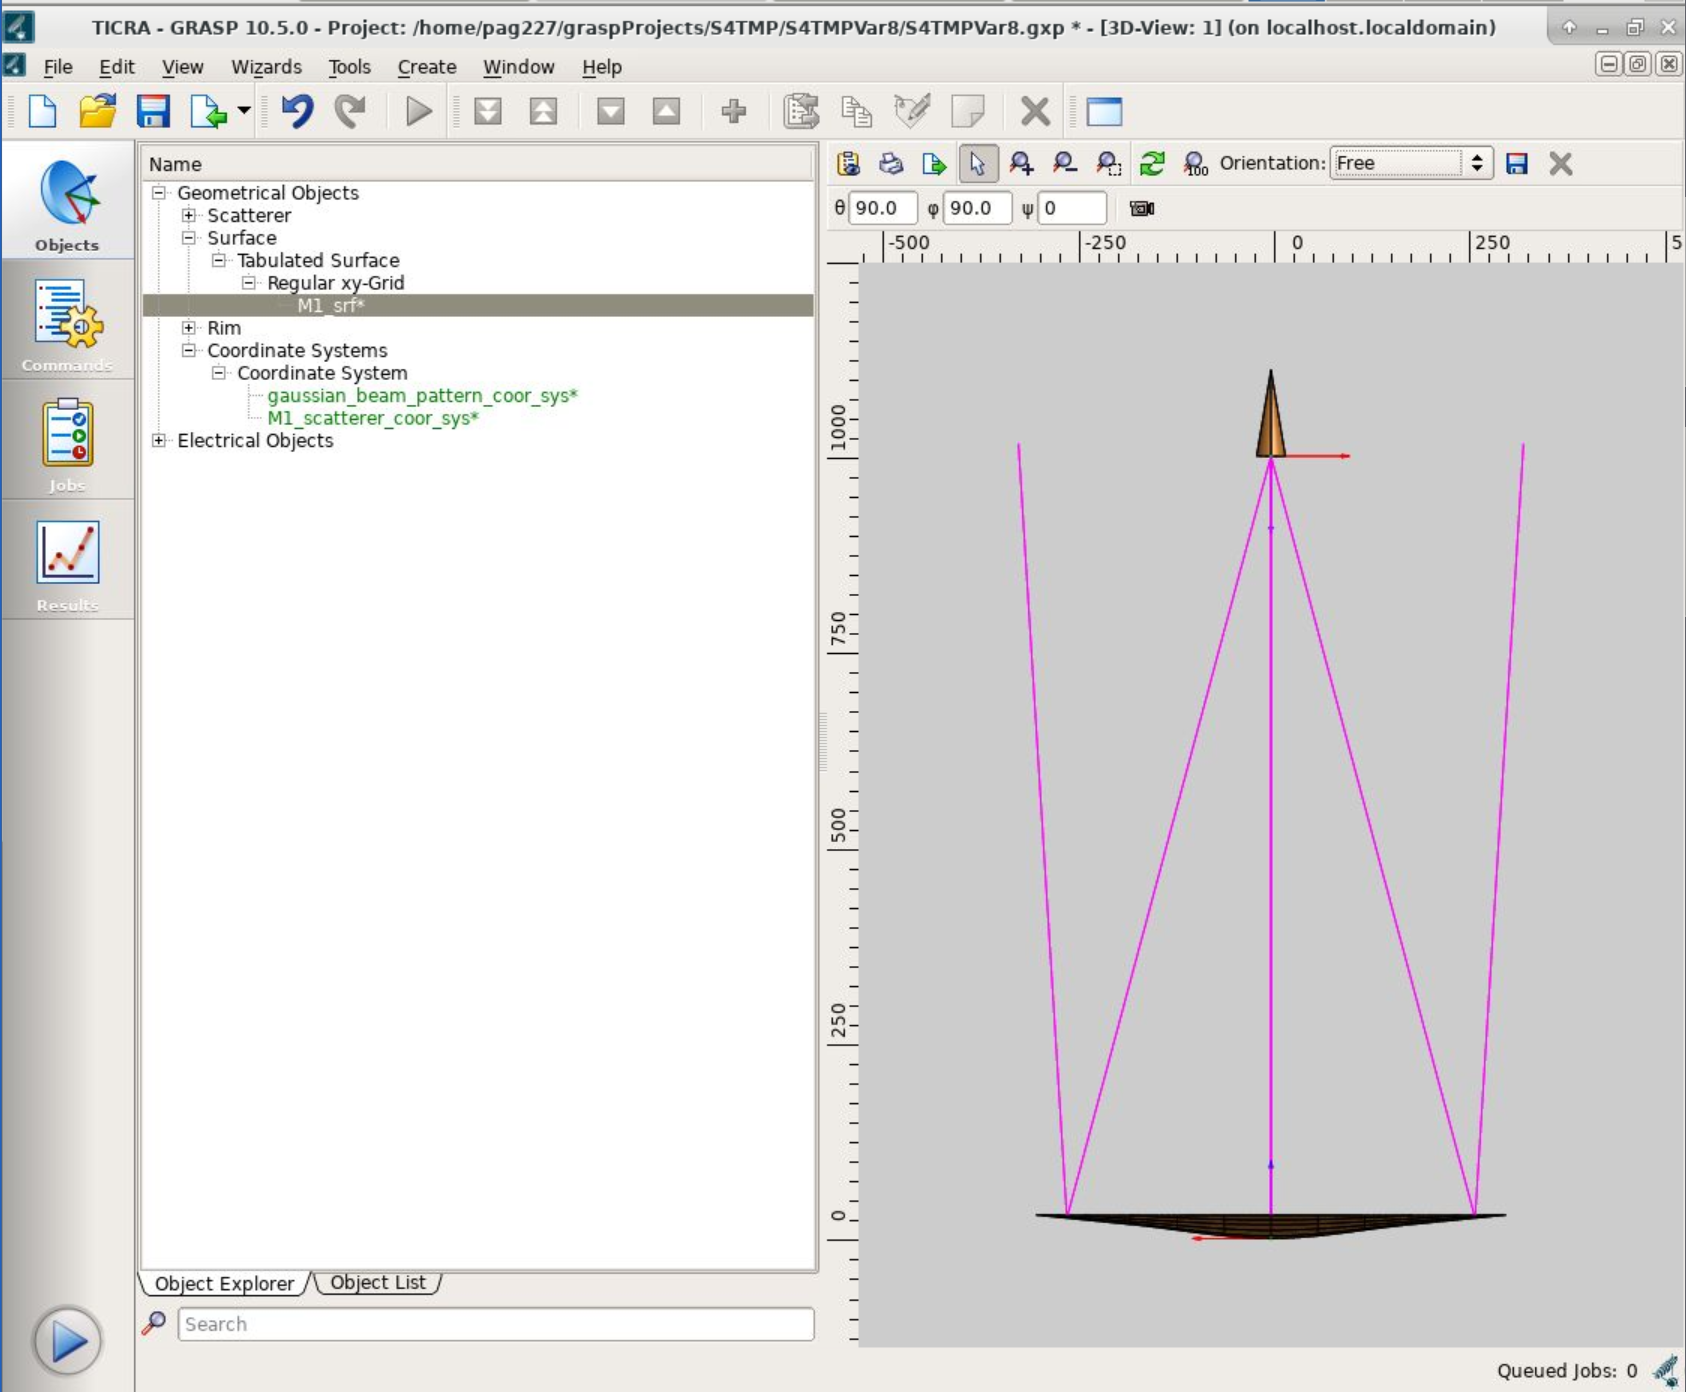
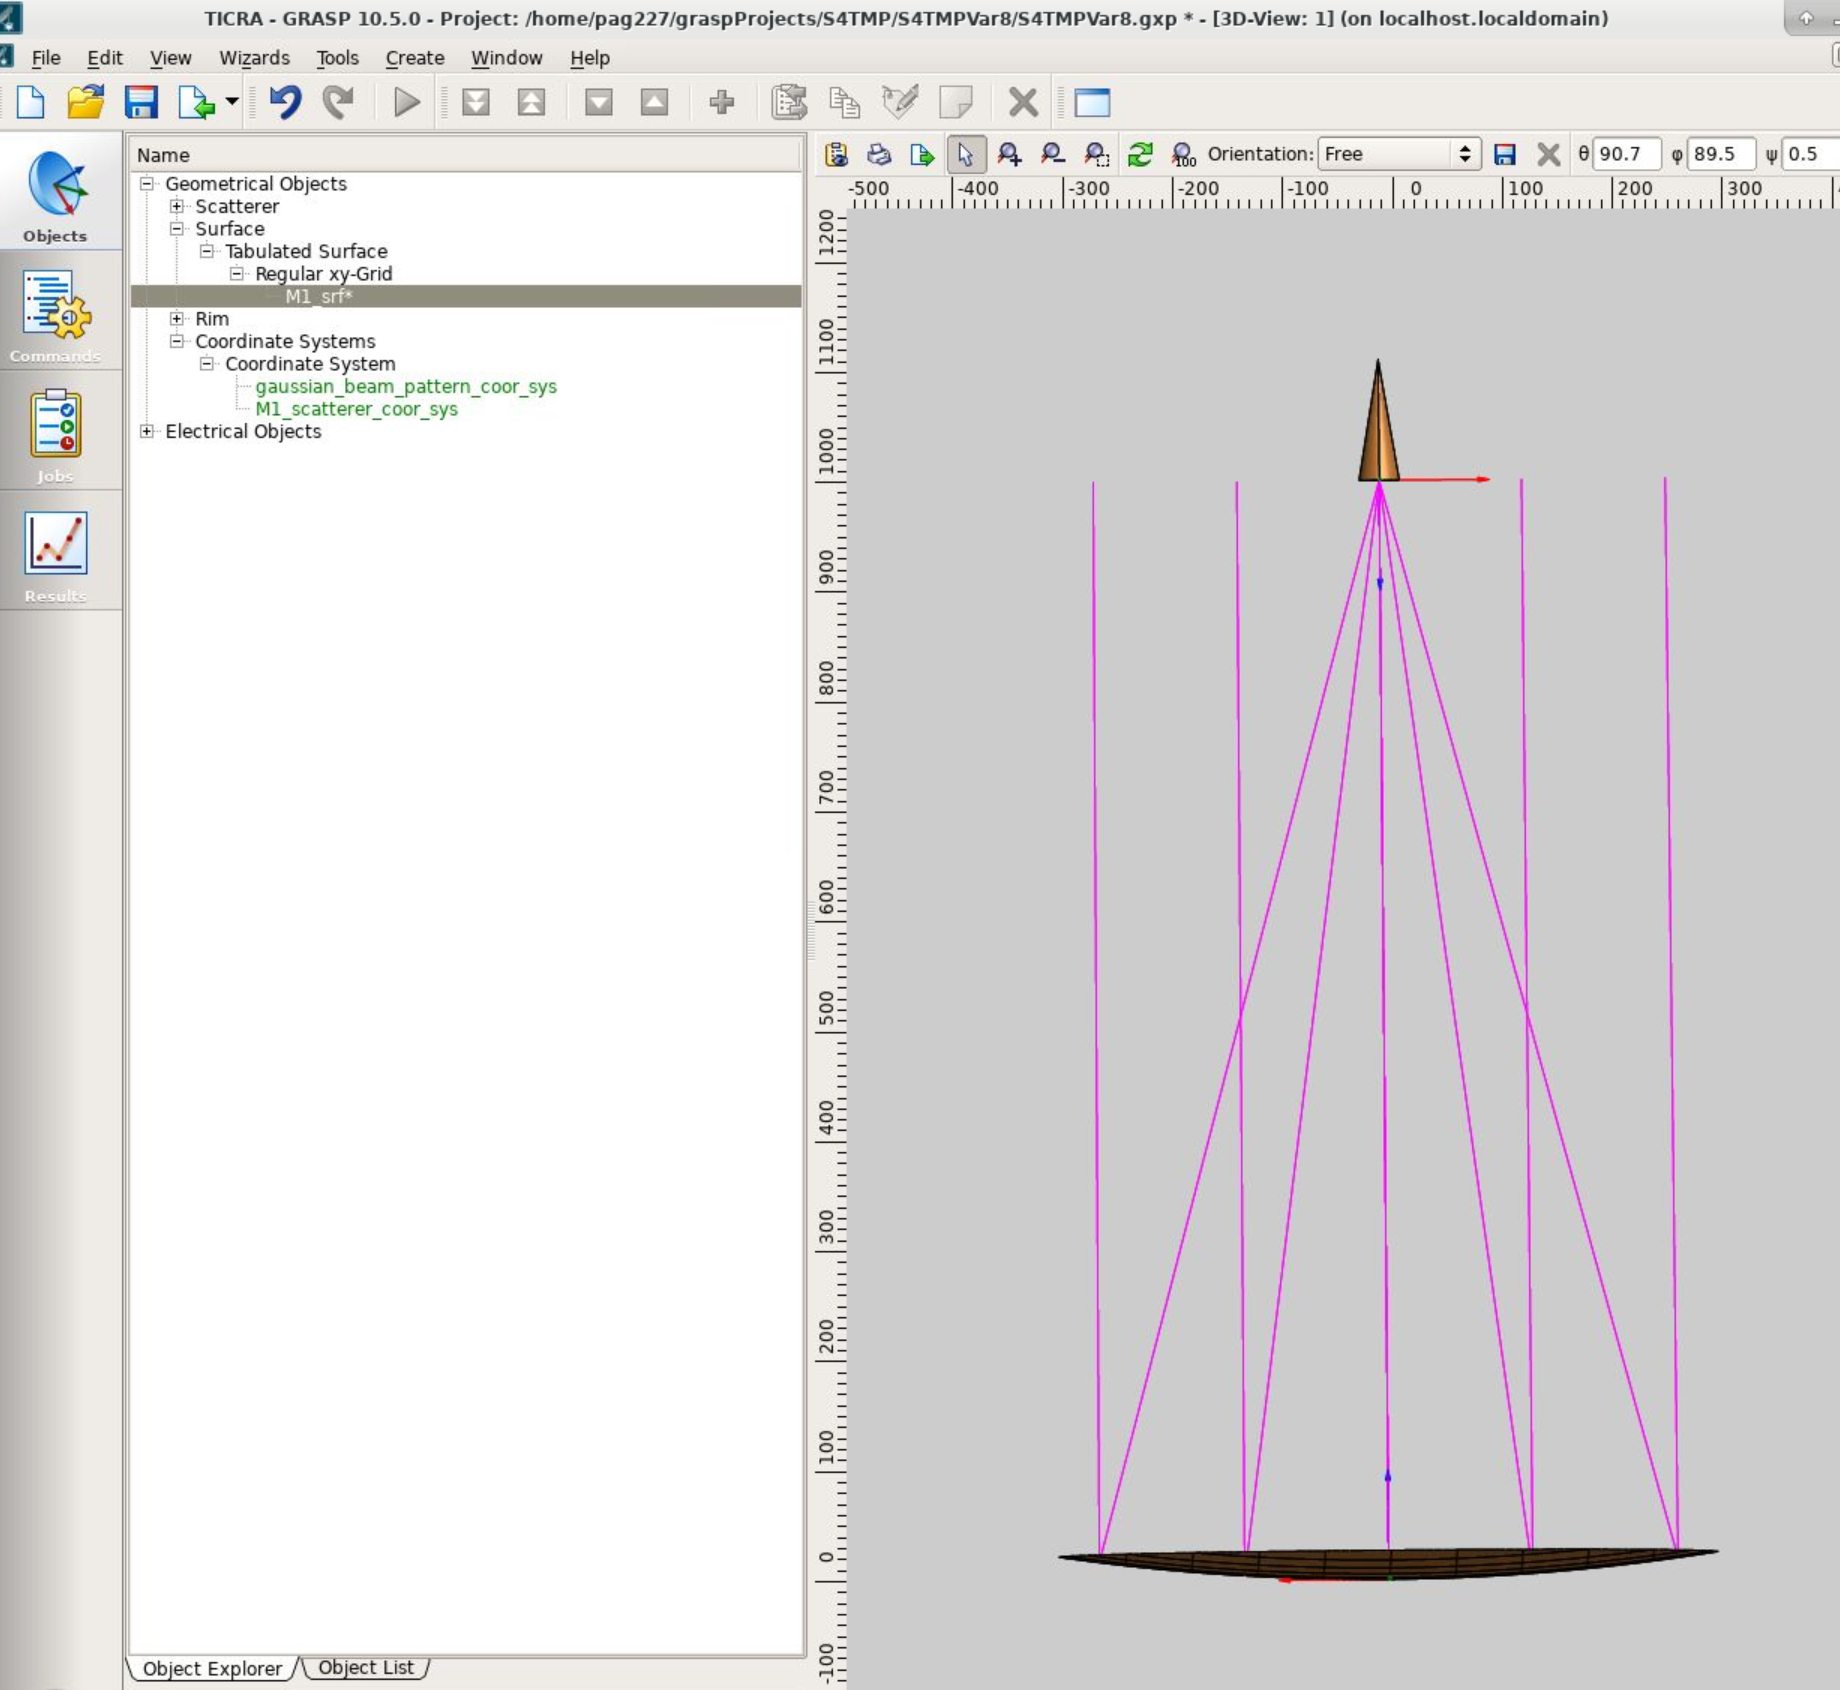
asdf

diff --git a/design_analysis/TMP_Mech_var8A_20210329/grasp_analysis/PDF/plan_for_grasp_LAT_analysis.md b/design_analysis/TMP_Mech_var8A_20210329/grasp_analysis/PDF/plan_for_grasp_LAT_analysis.md
@@ -6,7 +6,7 @@
 
 To test the ability of generating a grid of points, I generated an example of
 one reflector defined with a grid of points, the dummy shape I generated this
-time is z = 1000 (x^2+y^2)^0.5, which is of the kind z=r, this grid was evaluated
+time is z = 1000 (x^2+y^2), which is of the kind z=r^2 with a scale of ~300, this grid was evaluated
 in a grid of 5x5 points and is used as a proof of concept only.
 
 ![](single_reflectior_xy_grid.png)
